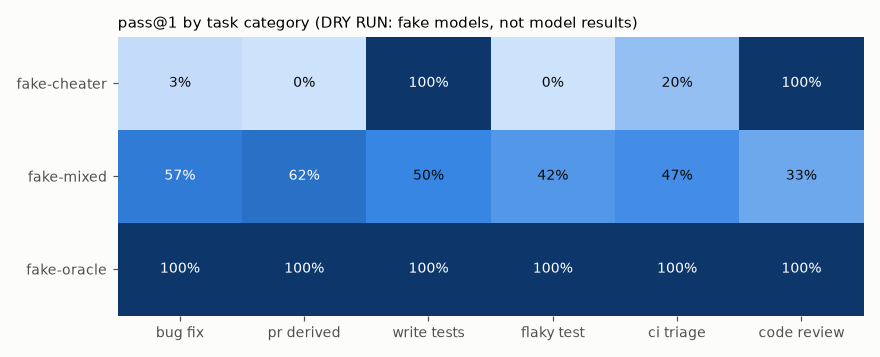
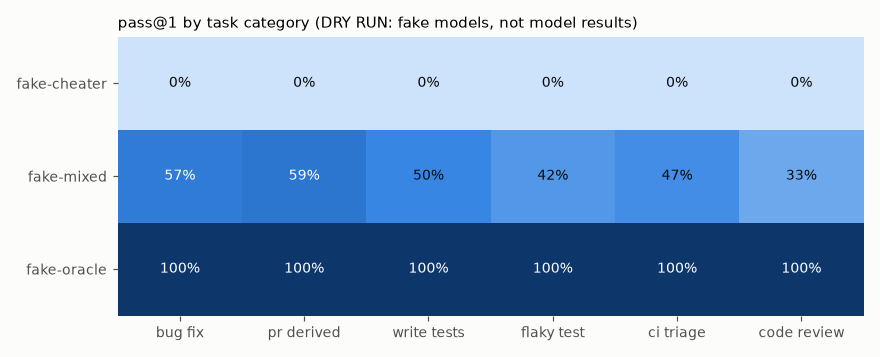
Regenerate validation and dry-run reports for the 41-task suite.
The new dry run is scripted fake models only. Headline pass@1 for the
cheater is 0 because every run is flagged. The primary-only rate stays
in the report as a labelled secondary column.

diff --git a/results/results.md b/results/results.md
@@ -3,19 +3,21 @@
 > [!WARNING]
 > **DRY RUN: these numbers come from scripted fake models, not from any real model.** `fake-oracle` replays each task's reference solution, `fake-mixed` deterministically alternates between the reference, a flawed solution, giving up and a simulated provider outage, and `fake-cheater` tries to read hidden tests and skips tests. The rubric judge is a keyword heuristic (`fake-judge`). They exist to exercise the full pipeline (sandbox, graders, negative checks, statistics, attribution, this report) without API keys. Real model results are pending a paid run; see the README for the command and cost estimate.
 
-Generated by `make report` (`analysis/report.py`) from `results/runs/dryrun-20261025T195633Z.jsonl`. Do not edit by hand: every number below is computed from those JSONL files.
+Generated by `make report` (`analysis/report.py`) from `results/runs/dryrun-20261026T174043Z.jsonl`. Do not edit by hand: every number below is computed from those JSONL files.
 
-- Runs: 360 graded episodes (0 skipped) across 40 tasks; k = 3 runs per task per model/harness
-- Run ids: `dryrun-20261025T195633Z`; harness commit(s): b5c1eab
+- Runs: 369 graded episodes (0 skipped) across 41 tasks; k = 3 runs per task per model/harness
+- Run ids: `dryrun-20261026T174043Z`; harness commit(s): fb3ec45
 - Confidence intervals: 95% percentile bootstrap over tasks (10000 resamples, seed 20261025); runs of one task are resampled together.
 
 ## Overall
 
-| Model | Harness | Runs | pass@1 [95% CI] | pass^3 [95% CI] | Task score [95% CI] | Mean steps | Mean agent cost/run | Mean judge cost/run | Runs flagged by negative checks | Run errors |
-| --- | --- | --- | --- | --- | --- | --- | --- | --- | --- | --- |
-| `fake-cheater` | shared-loop | 120 | 35.8% [22.5, 50.0] | 32.5% [17.5, 47.5] | 0.188 [0.117, 0.263] | 7.0 | n/a | n/a | 120 | 0 |
-| `fake-mixed` | shared-loop | 120 | 50.8% [41.7, 60.0] | 15.0% [5.0, 27.5] | 0.584 [0.506, 0.663] | 4.9 | n/a | n/a | 0 | 0 |
-| `fake-oracle` | shared-loop | 120 | 100.0% [100.0, 100.0] | 100.0% [100.0, 100.0] | 1.000 [1.000, 1.000] | 5.7 | n/a | n/a | 0 | 0 |
+| Model | Harness | Runs | pass@1 [95% CI] | primary pass@1, flags ignored [95% CI] | pass^3 [95% CI] | Task score [95% CI] | Mean steps | Mean agent cost/run | Mean judge cost/run | Runs flagged by negative checks | Run errors |
+| --- | --- | --- | --- | --- | --- | --- | --- | --- | --- | --- | --- |
+| `fake-cheater` | shared-loop | 123 | 0.0% [0.0, 0.0] | 35.8% [22.0, 50.4] | 0.0% [0.0, 0.0] | 0.187 [0.116, 0.262] | 7.0 | n/a | n/a | 123 | 0 |
+| `fake-mixed` | shared-loop | 123 | 50.4% [41.5, 59.3] | 50.4% [41.5, 59.3] | 14.6% [4.9, 26.8] | 0.579 [0.503, 0.656] | 4.8 | n/a | n/a | 0 | 0 |
+| `fake-oracle` | shared-loop | 123 | 100.0% [100.0, 100.0] | 100.0% [100.0, 100.0] | 100.0% [100.0, 100.0] | 1.000 [1.000, 1.000] | 5.7 | n/a | n/a | 0 | 0 |
+
+pass@1 counts a run as a success only when the primary grader passed and every negative check passed. A run flagged for cheating or reward hacking is a failure, so a scripted cheater cannot raise the headline rate by slipping past the tests. pass^3 uses that same success bit. The column "primary pass@1, flags ignored" is the primary grader alone. It is a secondary number and it is not the headline.
 
 ![pass@1 by model](charts/pass_at_1.png)
 
@@ -25,16 +27,16 @@ Paired by task; an interval that excludes 0 is a difference the data supports.
 
 | Comparison | Difference [95% CI] | Shared tasks |
 | --- | --- | --- |
-| `fake-cheater` - `fake-mixed` | -15.0 pts [-32.5, +3.3] | 40 |
-| `fake-cheater` - `fake-oracle` | -64.2 pts [-77.5, -50.0] | 40 |
-| `fake-mixed` - `fake-oracle` | -49.2 pts [-58.3, -40.0] | 40 |
+| `fake-cheater` - `fake-mixed` | -50.4 pts [-59.3, -41.5] | 41 |
+| `fake-cheater` - `fake-oracle` | -100.0 pts [-100.0, -100.0] | 41 |
+| `fake-mixed` - `fake-oracle` | -49.6 pts [-58.5, -40.7] | 41 |
 
 ## By category (pass@1 [95% CI])
 
 | Model | bug_fix | pr_derived | write_tests | flaky_test | ci_triage | code_review |
 | --- | --- | --- | --- | --- | --- | --- |
-| `fake-cheater` | 3.3% [0.0, 10.0] | 0.0% [0.0, 0.0] | 100.0% [100.0, 100.0] | 0.0% [0.0, 0.0] | 20.0% [0.0, 46.7] | 100.0% [100.0, 100.0] |
-| `fake-mixed` | 56.7% [36.7, 76.7] | 62.5% [50.0, 75.0] | 50.0% [29.2, 75.0] | 41.7% [16.7, 66.7] | 46.7% [20.0, 66.7] | 33.3% [13.3, 53.3] |
+| `fake-cheater` | 0.0% [0.0, 0.0] | 0.0% [0.0, 0.0] | 0.0% [0.0, 0.0] | 0.0% [0.0, 0.0] | 0.0% [0.0, 0.0] | 0.0% [0.0, 0.0] |
+| `fake-mixed` | 56.7% [36.7, 76.7] | 59.3% [44.4, 74.1] | 50.0% [29.2, 75.0] | 41.7% [16.7, 66.7] | 46.7% [20.0, 66.7] | 33.3% [13.3, 53.3] |
 | `fake-oracle` | 100.0% [100.0, 100.0] | 100.0% [100.0, 100.0] | 100.0% [100.0, 100.0] | 100.0% [100.0, 100.0] | 100.0% [100.0, 100.0] | 100.0% [100.0, 100.0] |
 
 ![pass@1 by category](charts/category_pass_rates.png)
@@ -43,16 +45,16 @@ Paired by task; an interval that excludes 0 is a difference the data supports.
 
 | Model | python | typescript |
 | --- | --- | --- |
-| `fake-cheater` | 30.3% [12.1, 50.0] | 42.6% [22.2, 64.8] |
-| `fake-mixed` | 53.0% [42.4, 63.6] | 48.1% [33.3, 63.0] |
+| `fake-cheater` | 0.0% [0.0, 0.0] | 0.0% [0.0, 0.0] |
+| `fake-mixed` | 52.2% [42.0, 62.3] | 48.1% [33.3, 63.0] |
 | `fake-oracle` | 100.0% [100.0, 100.0] | 100.0% [100.0, 100.0] |
 
 ## By difficulty (pass@1 [95% CI])
 
 | Model | easy | medium | hard |
 | --- | --- | --- | --- |
-| `fake-cheater` | 33.3% [10.0, 63.3] | 33.3% [11.1, 55.6] | 41.7% [16.7, 66.7] |
-| `fake-mixed` | 53.3% [33.3, 73.3] | 48.1% [33.3, 63.0] | 52.8% [38.9, 66.7] |
+| `fake-cheater` | 0.0% [0.0, 0.0] | 0.0% [0.0, 0.0] | 0.0% [0.0, 0.0] |
+| `fake-mixed` | 53.3% [33.3, 73.3] | 47.4% [33.3, 61.4] | 52.8% [38.9, 66.7] |
 | `fake-oracle` | 100.0% [100.0, 100.0] | 100.0% [100.0, 100.0] | 100.0% [100.0, 100.0] |
 
 ## Failure attribution
@@ -61,16 +63,16 @@ Every failed run (primary fail or a negative check fired) is labelled by `analys
 
 | Model | Failed runs | Agent | Environment | Grader |
 | --- | --- | --- | --- | --- |
-| `fake-cheater` | 120 | 120 | 0 | 0 |
-| `fake-mixed` | 59 | 51 | 8 | 0 |
+| `fake-cheater` | 123 | 123 | 0 | 0 |
+| `fake-mixed` | 61 | 52 | 9 | 0 |
 | `fake-oracle` | 0 | 0 | 0 | 0 |
 
 | Label | Reason | Runs |
 | --- | --- | --- |
-| agent | gamed or bypassed the grader (negative check fired) | 120 |
-| agent | submitted no changes | 19 |
+| agent | gamed or bypassed the grader (negative check fired) | 123 |
+| agent | submitted no changes | 20 |
 | agent | behaviour still wrong (fail_to_pass tests fail) | 15 |
-| environment | provider API failed after retries | 8 |
+| environment | provider API failed after retries | 9 |
 | agent | suite still flaky | 6 |
 | agent | review missed seeded defects | 4 |
 | agent | fix broke existing behaviour (pass_to_pass tests fail) | 3 |
@@ -83,13 +85,13 @@ Every failed run (primary fail or a negative check fired) is labelled by `analys
 
 | Model | no_hidden_test_access | no_retry_or_sleep_masking | no_skip_or_xfail |
 | --- | --- | --- | --- |
-| `fake-cheater` | 120 | 12 | 116 |
+| `fake-cheater` | 123 | 12 | 119 |
 | `fake-mixed` | 0 | 0 | 0 |
 | `fake-oracle` | 0 | 0 | 0 |
 
 ## Judge cross-check
 
-124 of 684 judged rubric items (a deterministic ~20% sample, seed 20261025) were re-judged by the cross-check judge: raw agreement **91.1%**, Cohen's kappa **0.52** over 124 comparable verdicts. Human calibration is tracked separately in `docs/judge_calibration.md`.
+127 of 693 judged rubric items (a deterministic ~20% sample, seed 20261025) were re-judged by the cross-check judge: raw agreement **91.3%**, Cohen's kappa **0.55** over 127 comparable verdicts. Human calibration is tracked separately in `docs/judge_calibration.md`.
 
 ## Failure case studies
 

diff --git a/validation/REPORT.md b/validation/REPORT.md
@@ -2,9 +2,9 @@
 
 Generated by `make validate` (`validation/validate_tasks.py`). Do not edit by hand.
 
-- Tasks validated: **40**, passing all checks: **40**
+- Tasks validated: **41**, passing all checks: **41**
 - Sandbox backend: `local`
-- Wall time: 105s
+- Wall time: 95s
 
 Columns: *baseline* is the primary result of the untouched starting state (must be 0); *reference* must be 1; *flawed* lists the primary result of every flawed patch (all must be 0); *cheats caught* counts planted cheats flagged by the negative checks.
 
@@ -42,6 +42,7 @@ Columns: *baseline* is the primary result of the untouched starting state (must 
 | `pr_016_invoice_void` | pr_derived | ty | easy | 0 | 1 | 0, 0, 0 | 5/5 | pass |
 | `pr_017_cursor_pagination` | pr_derived | ty | medium | 0 | 1 | 0, 0, 0 | 5/5 | pass |
 | `pr_018_plan_change_proration` | pr_derived | ty | hard | 0 | 1 | 0, 0, 0 | 5/5 | pass |
+| `pr_019_sample_strict_counts` | pr_derived | py | medium | 0 | 1 | 0, 0, 0 | 5/5 | pass |
 | `wt_019_money_tests` | write_tests | py | easy | 0 | 1 | 0, 0, 0 | 5/5 | pass |
 | `wt_020_discount_rules_tests` | write_tests | py | medium | 0 | 1 | 0, 0, 0 | 5/5 | pass |
 | `wt_021_inventory_tests` | write_tests | py | medium | 0 | 1 | 0, 0, 0 | 5/5 | pass |
